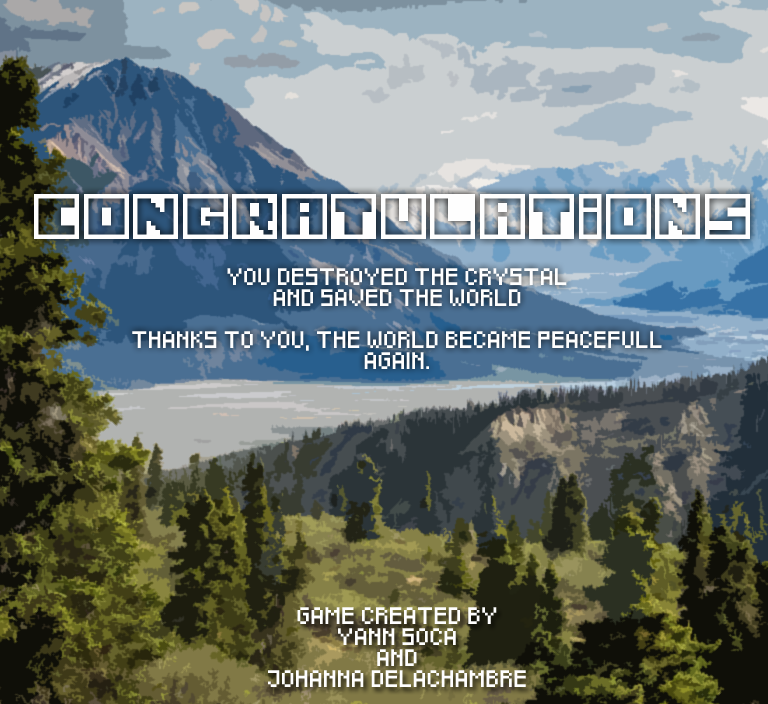
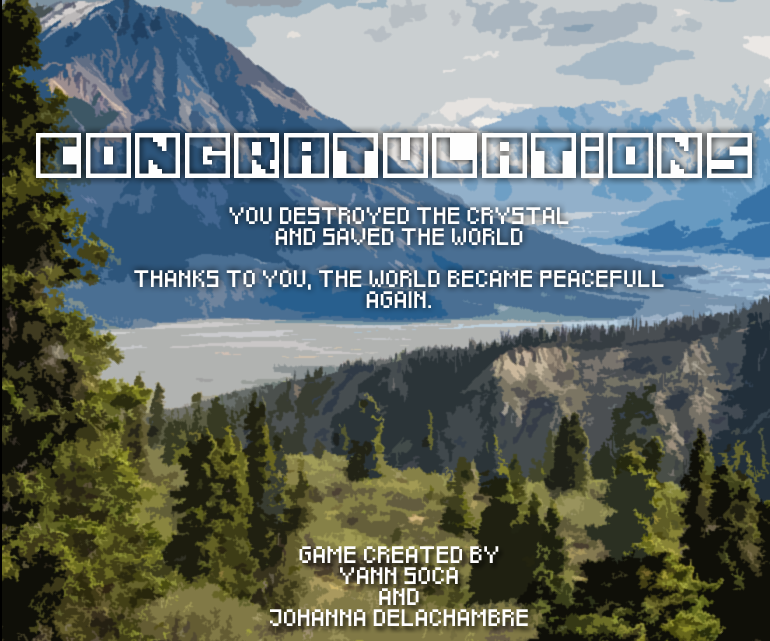
finitions

diff --git a/src/js/jeu.js b/src/js/jeu.js
@@ -179,8 +179,6 @@ function anime() {
       porte.collisionPorteHup(hup);
     })
   }
-  
-  }
   if(map[24]=="U15"){
     porteCristal.forEach( porteFinBoss =>{
       porteFinBoss.drawObjet();
@@ -343,6 +341,9 @@ function anime() {
   hup.collisionEnnemisHup(ennemis);
   hup.gameover();
   changeMap();
+  if(map[24]=="U16"){
+    crystal.collisionObjetHup(hup);
+  }
   if(moveg == true){
       hup.vg =32;
   }

diff --git a/src/js/Objet.js b/src/js/Objet.js
@@ -216,7 +216,7 @@ class Objet{
             }
             if(this.type == "cristal"){
                    
-                ctx.drawImage(finJeu, 0, 0);
+                ctx.drawImage(finJeu, 0, 0,768,640);
                 //this.etat = false;
 
             }

diff --git a/src/js/menu.js b/src/js/menu.js
@@ -15,7 +15,7 @@ function loadMenu(){
       break;
       case 67:
         // afficher les commandes
-        ctx.drawImage(commandes, 0, 0);
+        ctx.drawImage(commandes, 0, 0,768,640);
         break;
       case 77 :
         // revenir au menu
